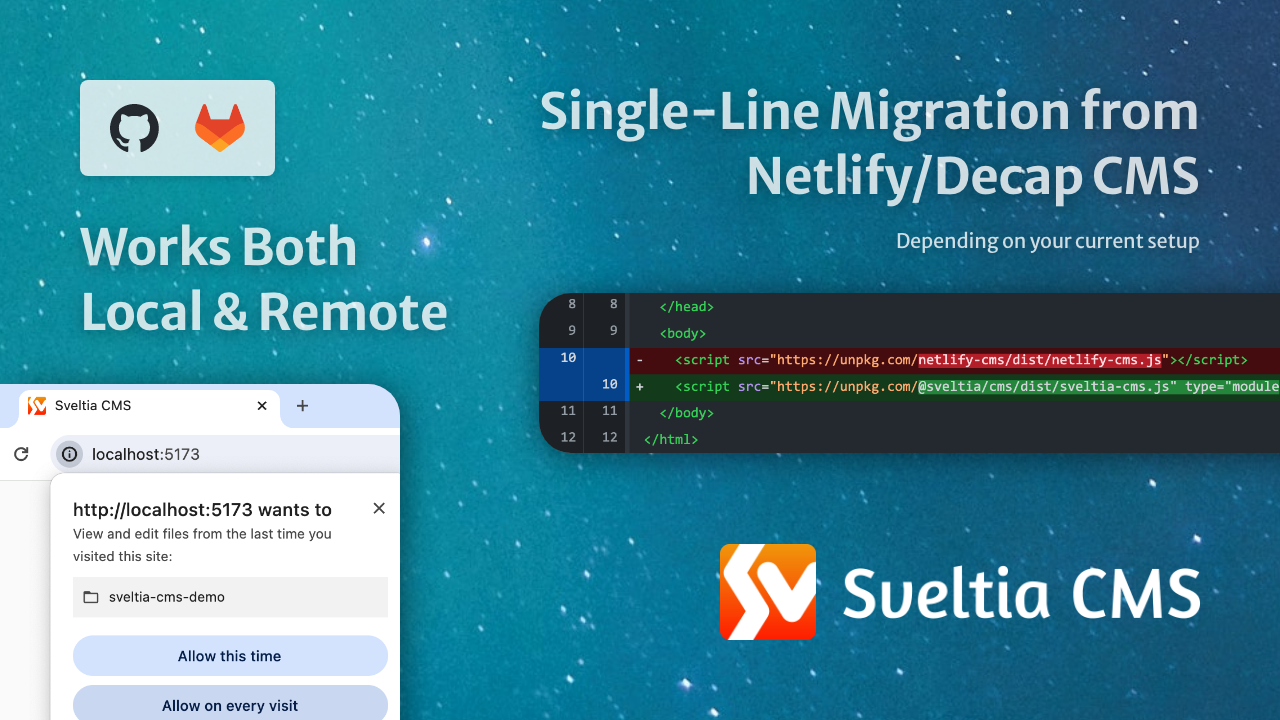
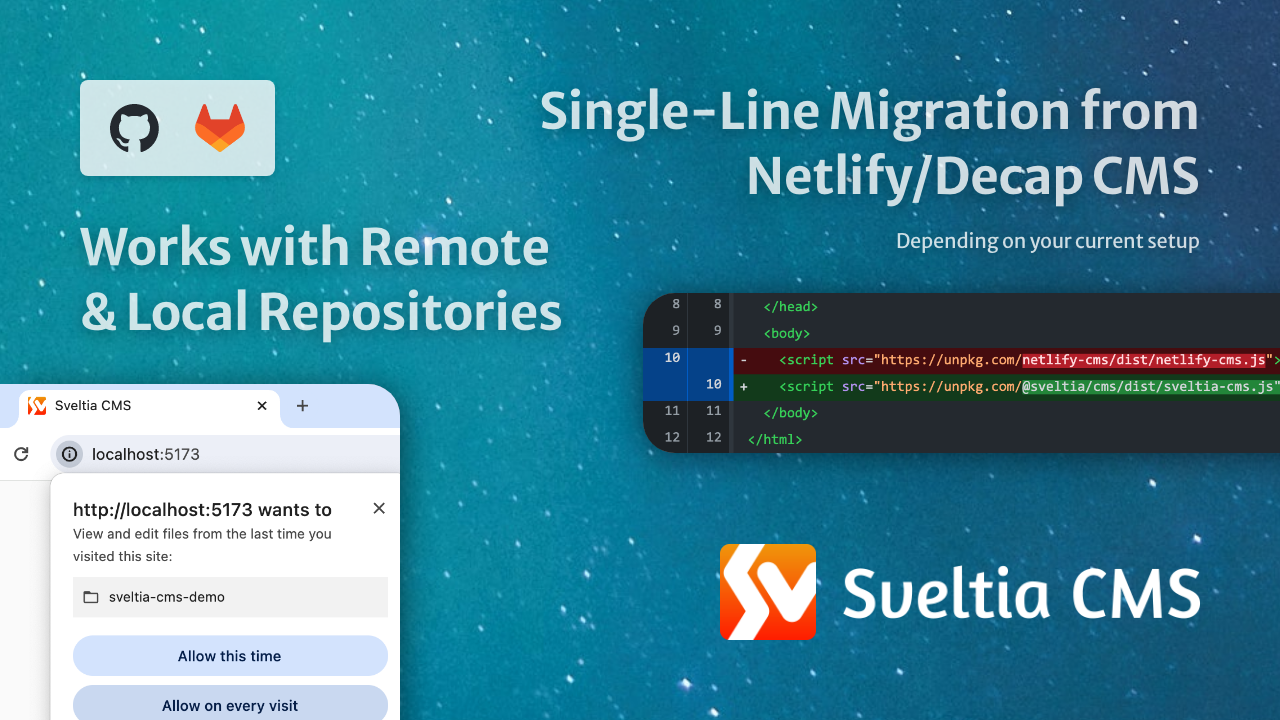
[skip ci] Update screenshot

diff --git a/README.md b/README.md
@@ -10,7 +10,7 @@ Sveltia CMS is a Git-based lightweight headless CMS under active development as 
 
 ![Screenshot: All-New Asset Library; Full Internationalization Support with DeepL](docs/screenshot-4-20231124.webp)<br>
 
-![Screenshot: Works both Local & Remote; Single-Line Migration from Netlify/Decap CMS (depending on your current setup); Sveltia CMS](docs/screenshot-5-20240405.webp)<br>
+![Screenshot: Works with Remote (GitHub, GitLab) and Local Repositories; Single-Line Migration from Netlify/Decap CMS (depending on your current setup); Sveltia CMS](docs/screenshot-5-20240405.webp)<br>
 
 ## Motivation
 
